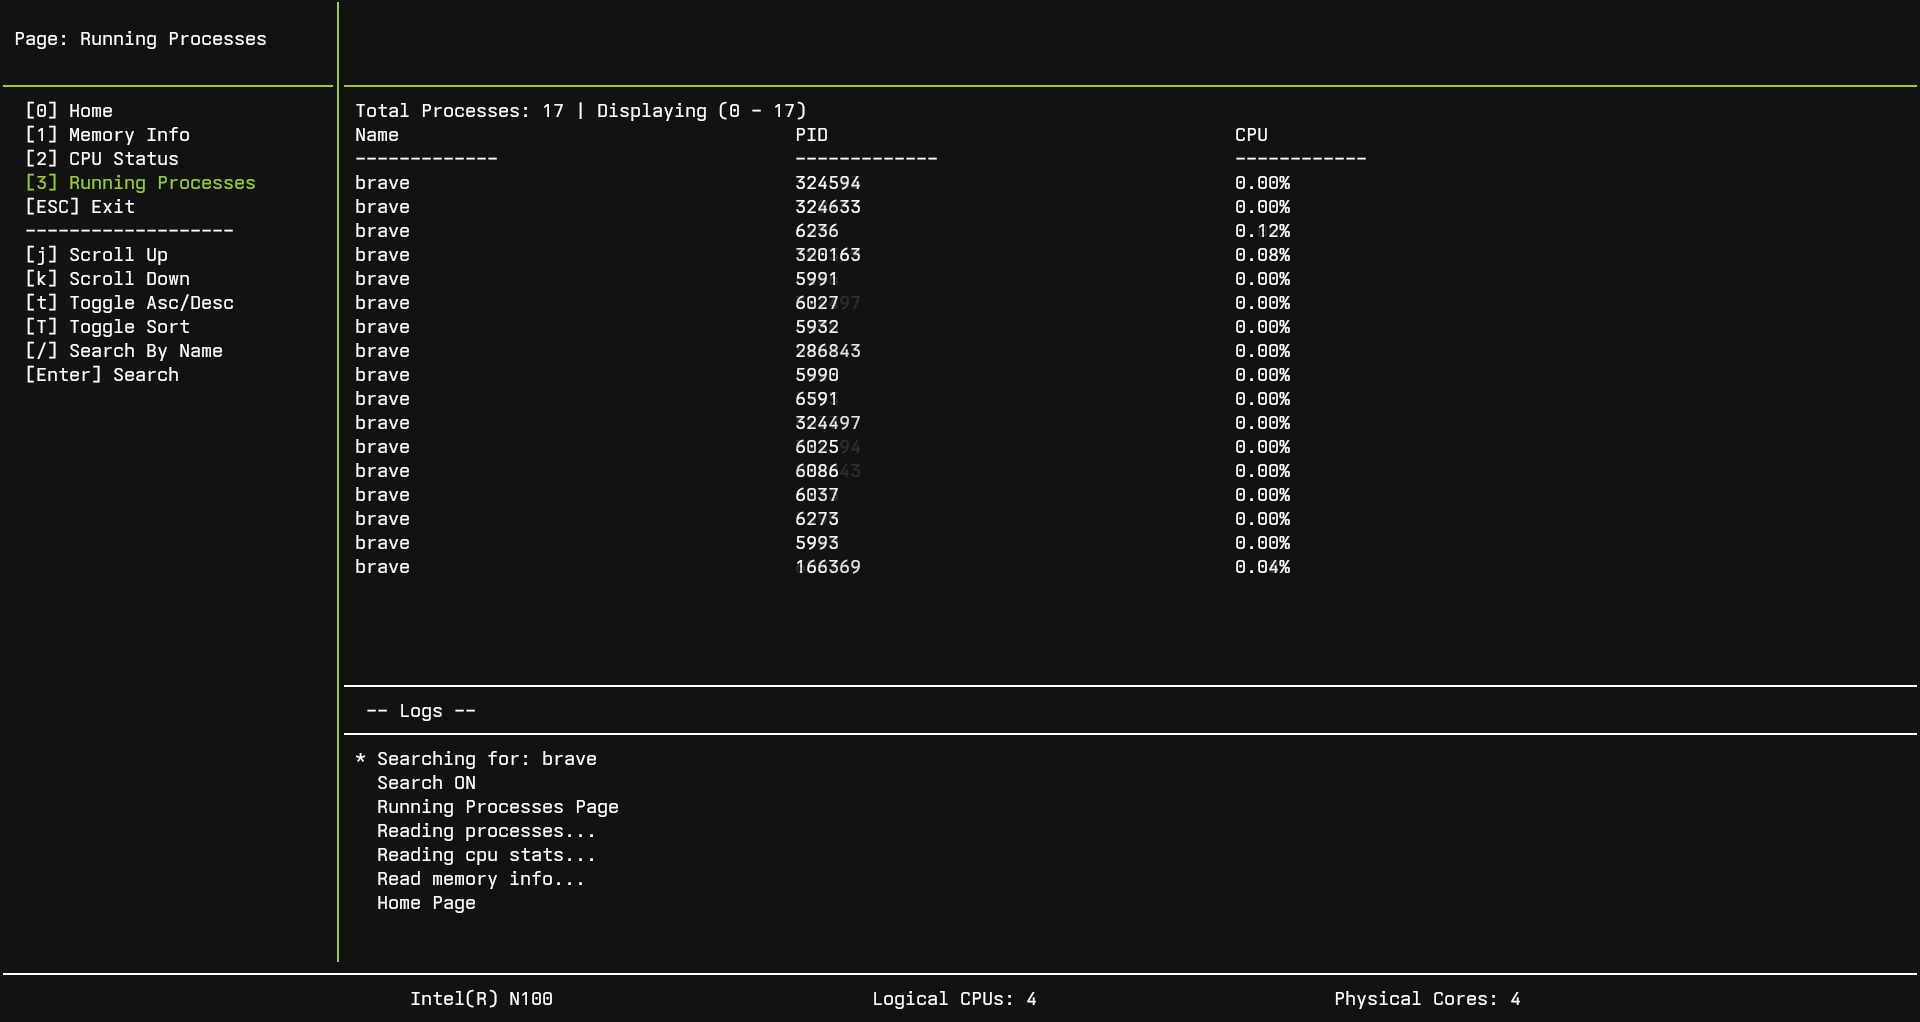
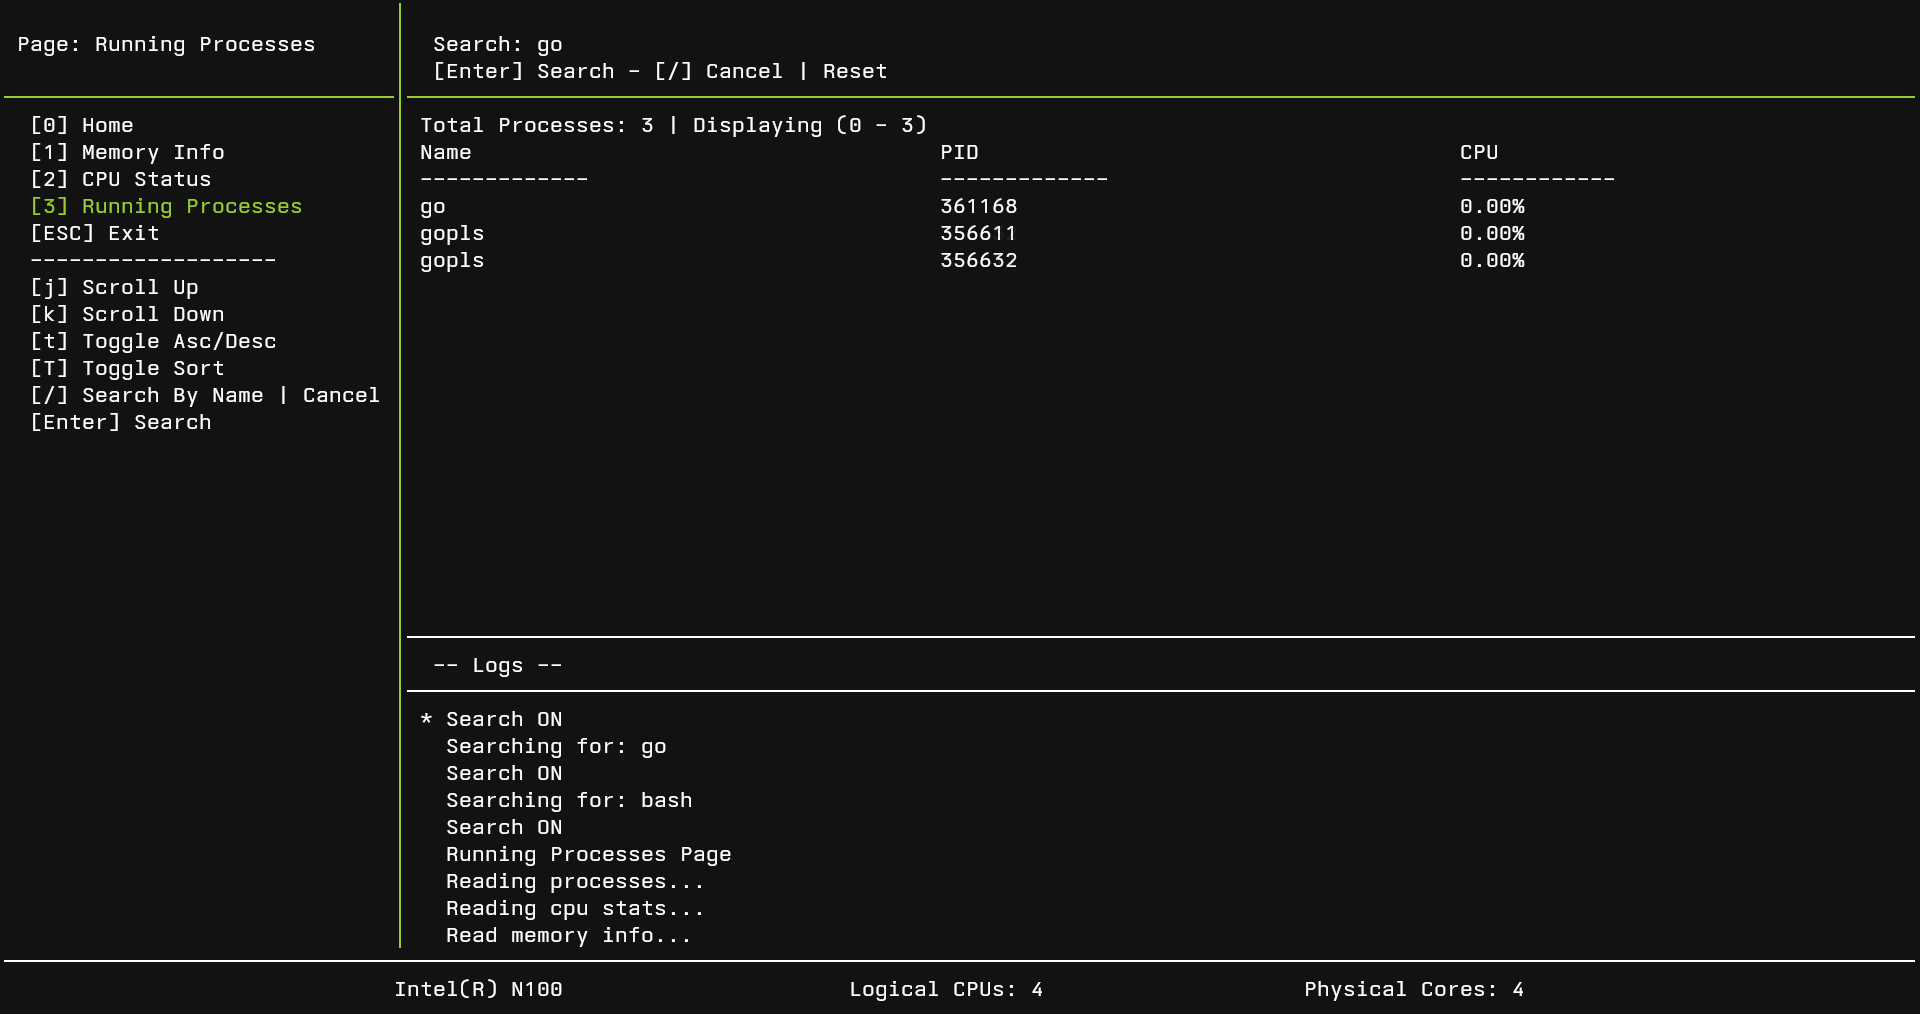
prepareing for v0.0.4

diff --git a/scenes/processes/search.go b/scenes/processes/search.go
@@ -13,7 +13,8 @@ type search struct {
 
 func (s *search) Update(d float64) {}
 func (s *search) Render(sc interfaces.ScreenControl) {
-	window.Text(sc, screentui.P(33, 1), "Search: ["+s.text+"] [Enter] Search - [/] Cancel | Reset")
+	window.Text(sc, screentui.P(33, 1), "Search: "+s.text)
+	window.Text(sc, screentui.P(33, 2), "[Enter] Search - [/] Cancel | Reset")
 }
 
 func (s *search) Events(ev tcell.Event) {
